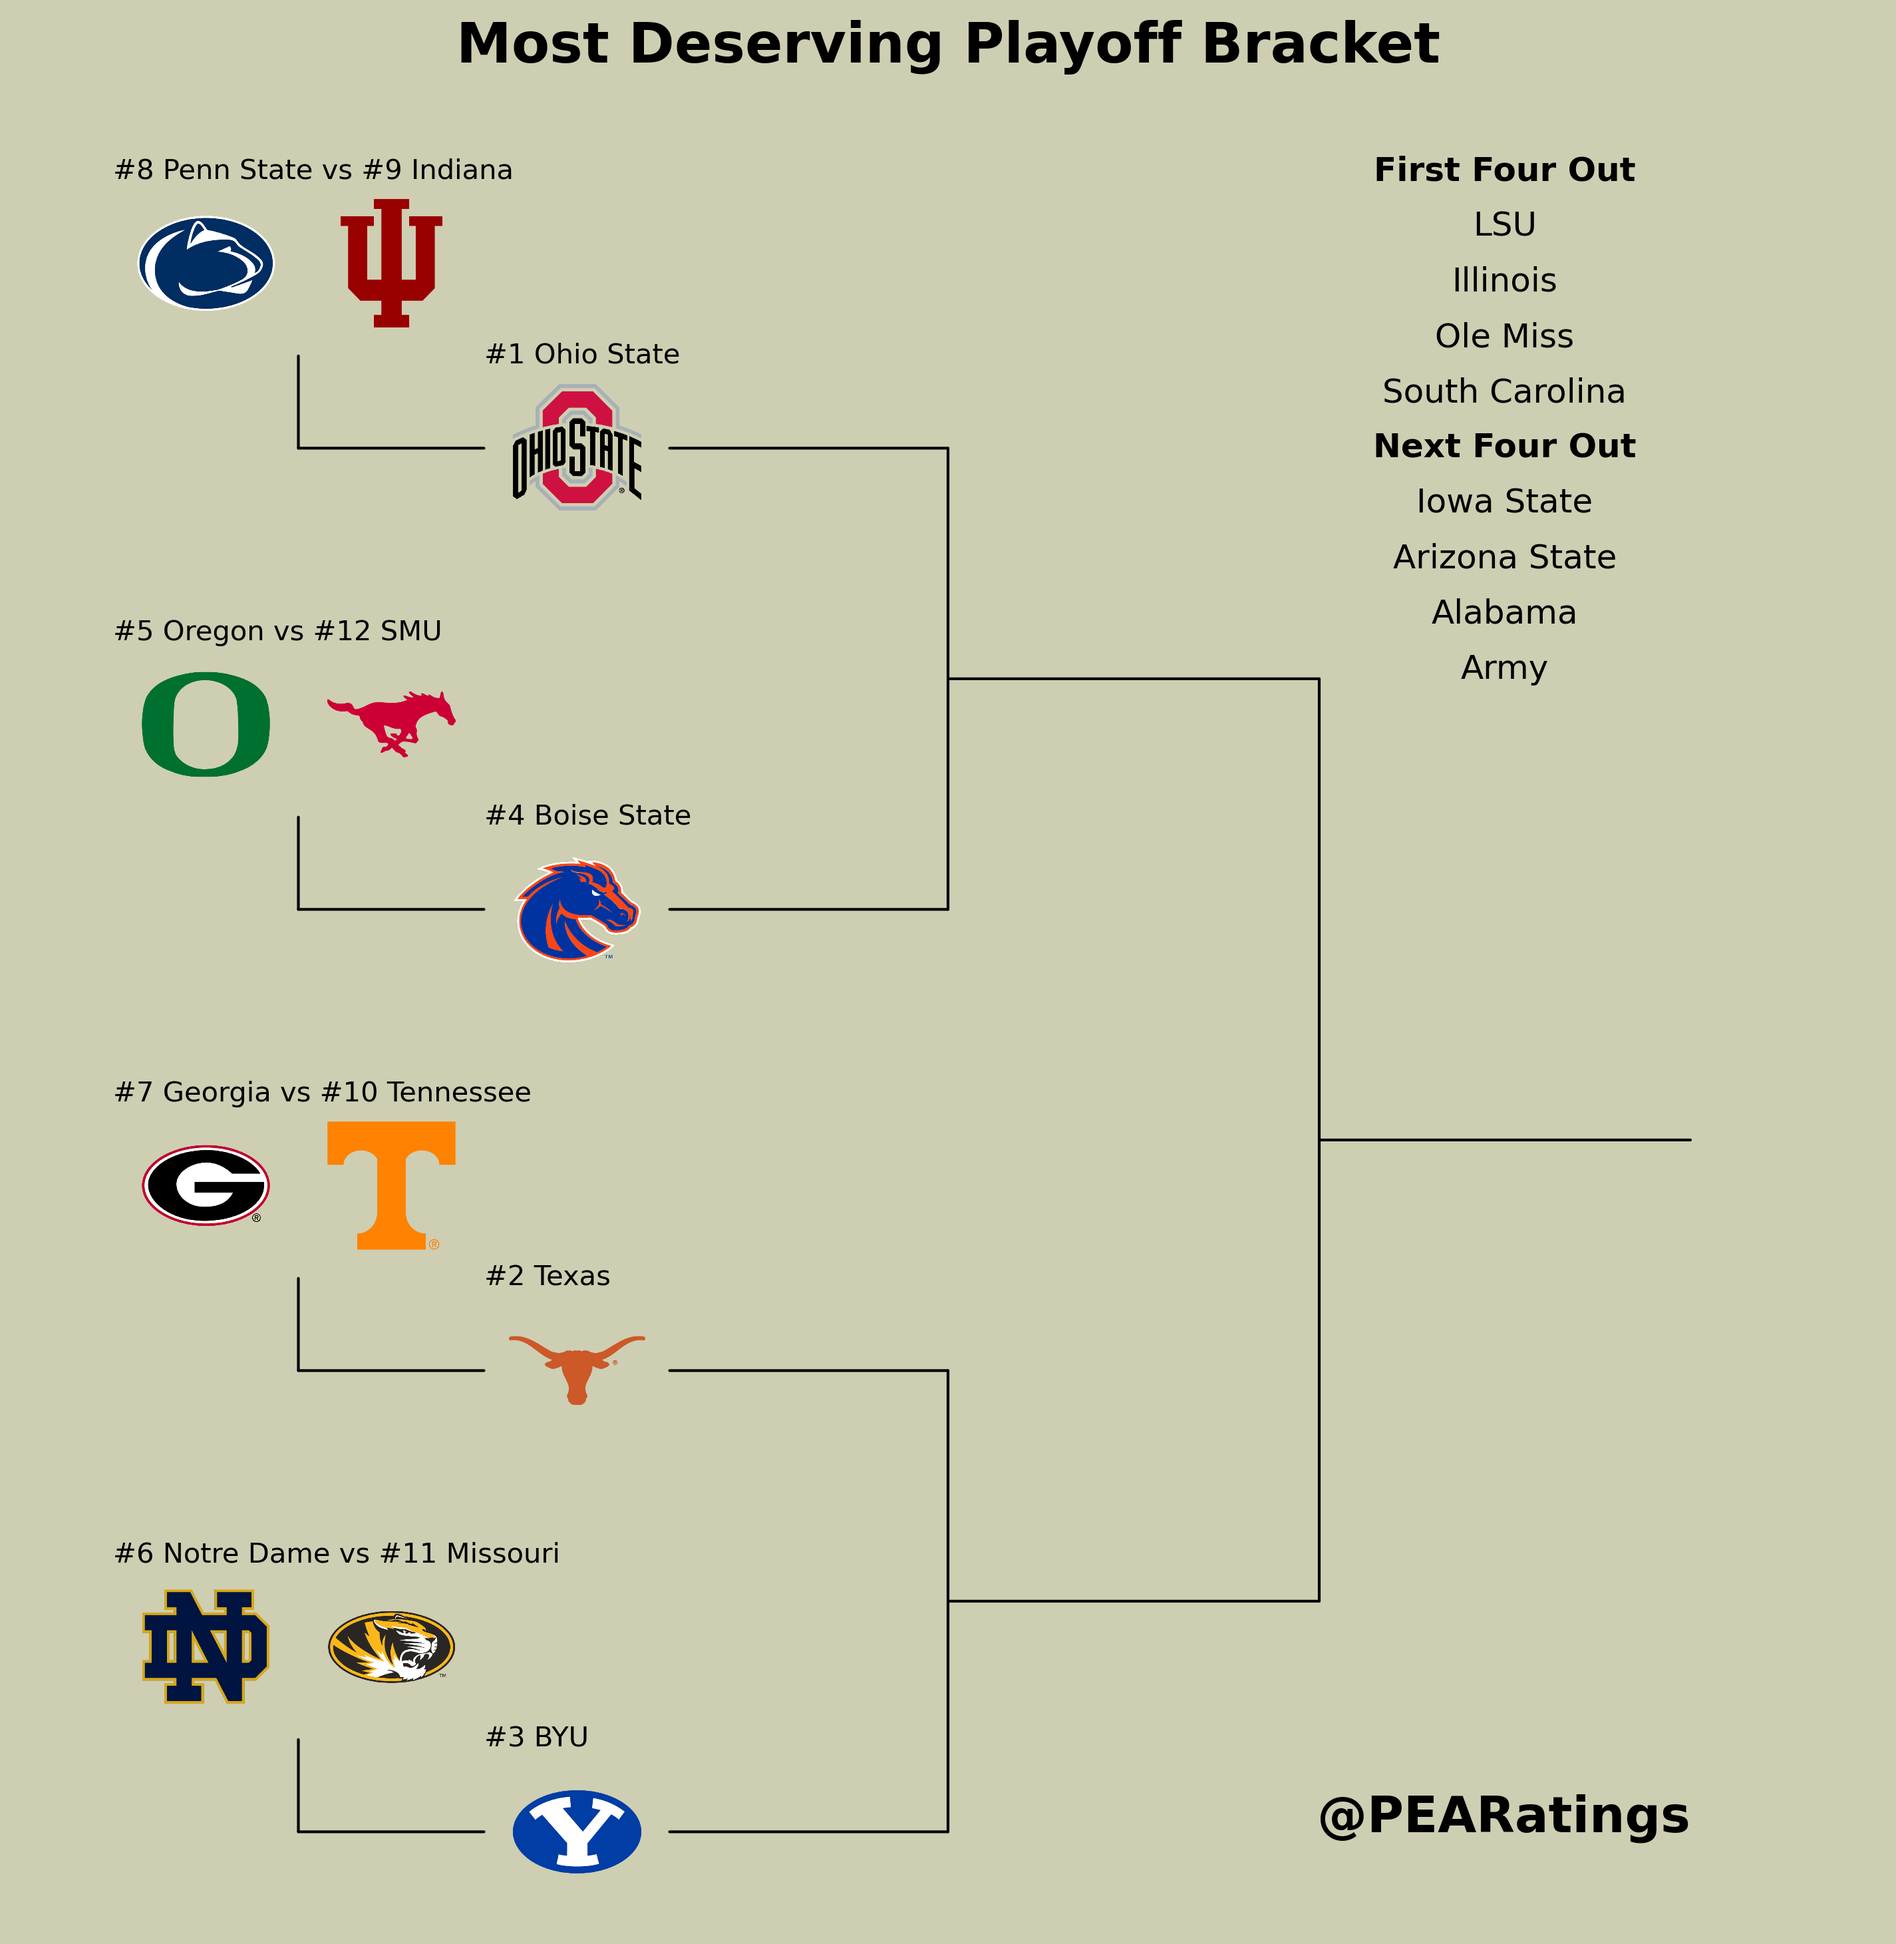
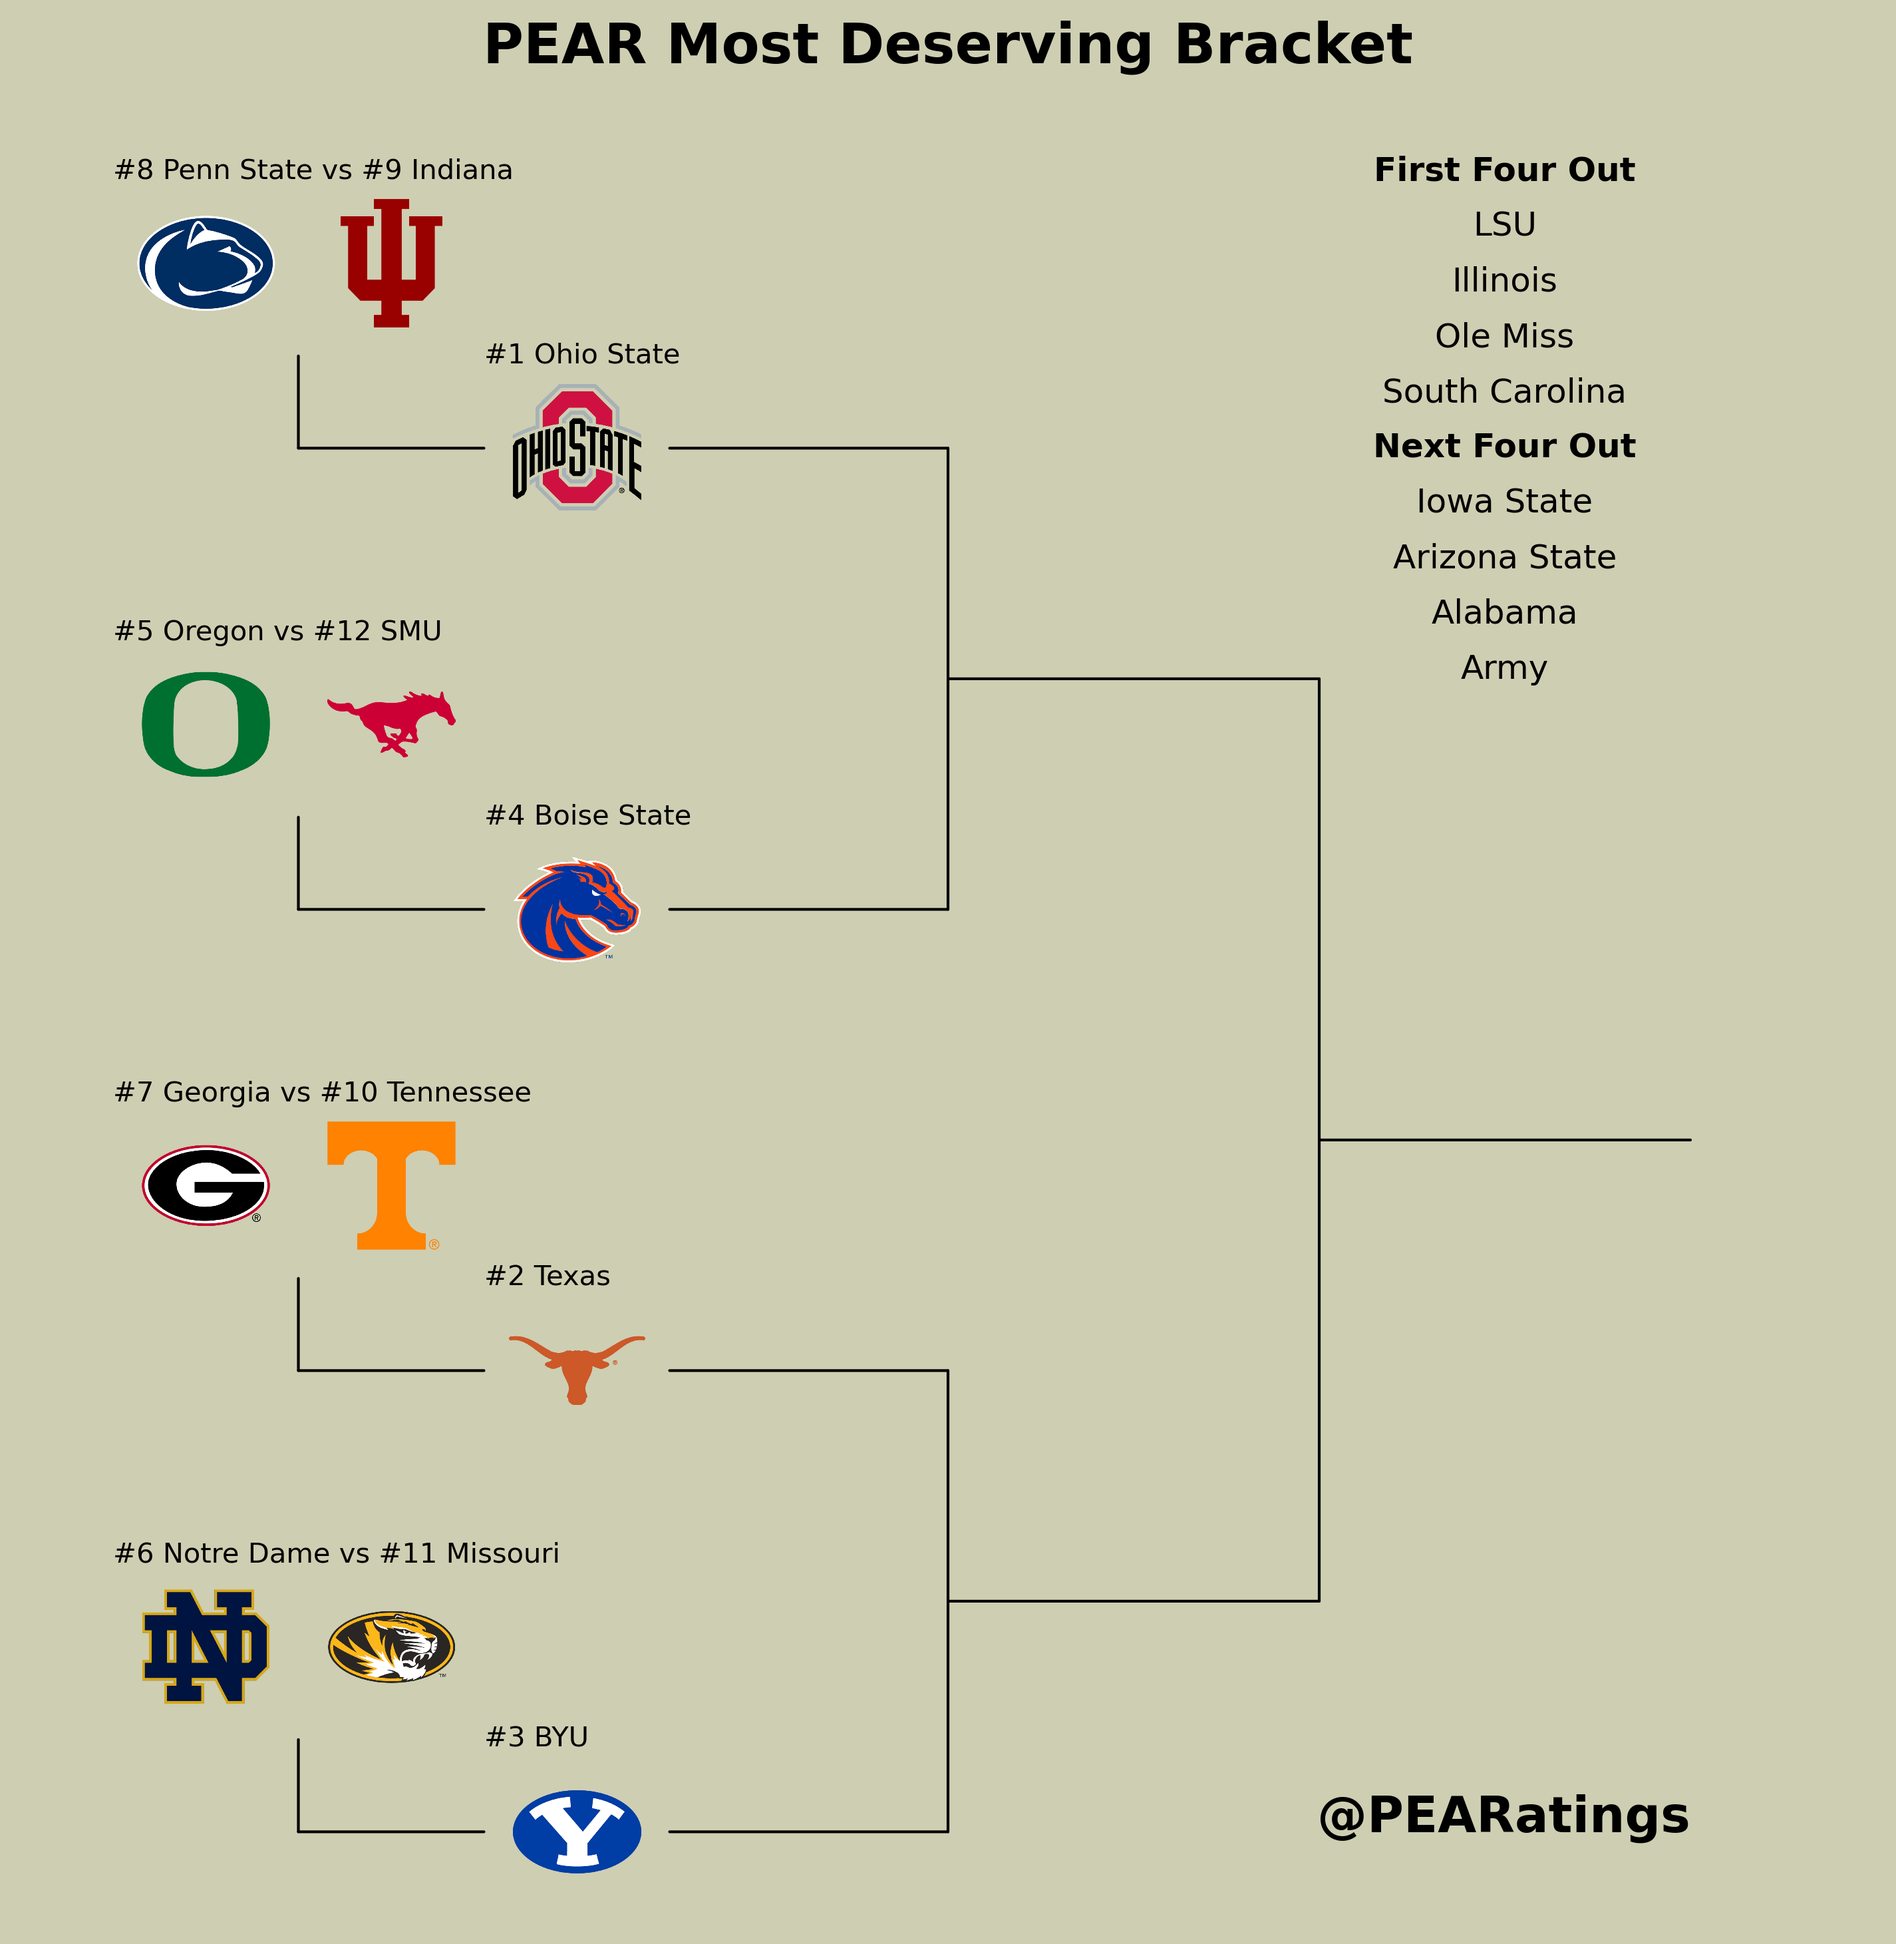
changing titles of playoff visuals

Changed region(s): [[0.2186, 0.0, 0.7807, 0.0312]]

diff --git a/visual_content.py b/visual_content.py
@@ -2767,7 +2767,7 @@ try:
         ax.text(0.9, 0.05, "@PEARatings", fontsize=18, fontweight='bold', ha='right')
         plt.gca().set_facecolor('#CECEB2')
         plt.gcf().set_facecolor('#CECEB2')
-        plt.title("Power Ratings Playoff Bracket", fontweight='bold', fontsize=20)
+        plt.title("PEAR Power Ratings Bracket", fontweight='bold', fontsize=20)
         file_path = os.path.join(folder_path, "projected_playoff")
         plt.savefig(file_path, dpi = 300, bbox_inches = 'tight')
     draw_playoff_bracket(seeding)
@@ -3050,7 +3050,7 @@ try:
         ax.text(0.9, 0.05, "@PEARatings", fontsize=18, fontweight='bold', ha='right')
         plt.gca().set_facecolor('#CECEB2')
         plt.gcf().set_facecolor('#CECEB2')
-        plt.title("Most Deserving Playoff Bracket", fontweight='bold', fontsize=20)
+        plt.title("PEAR Most Deserving Bracket", fontweight='bold', fontsize=20)
         file_path = os.path.join(folder_path, "most_deserving_playoff")
         plt.savefig(file_path, bbox_inches='tight',dpi=300)
     # Assuming team_data is a DataFrame with columns ['team', 'logo'], where 'logo' is the URL to each team's logo
